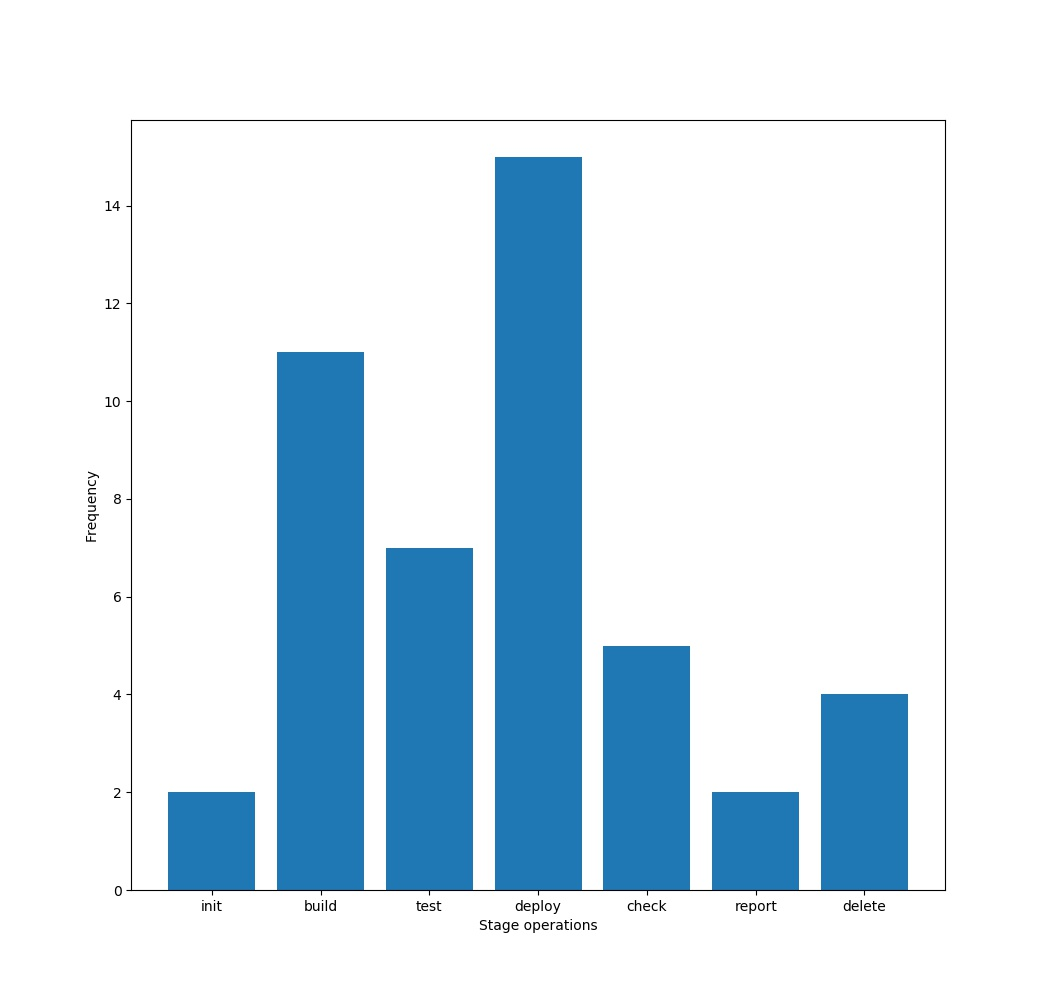
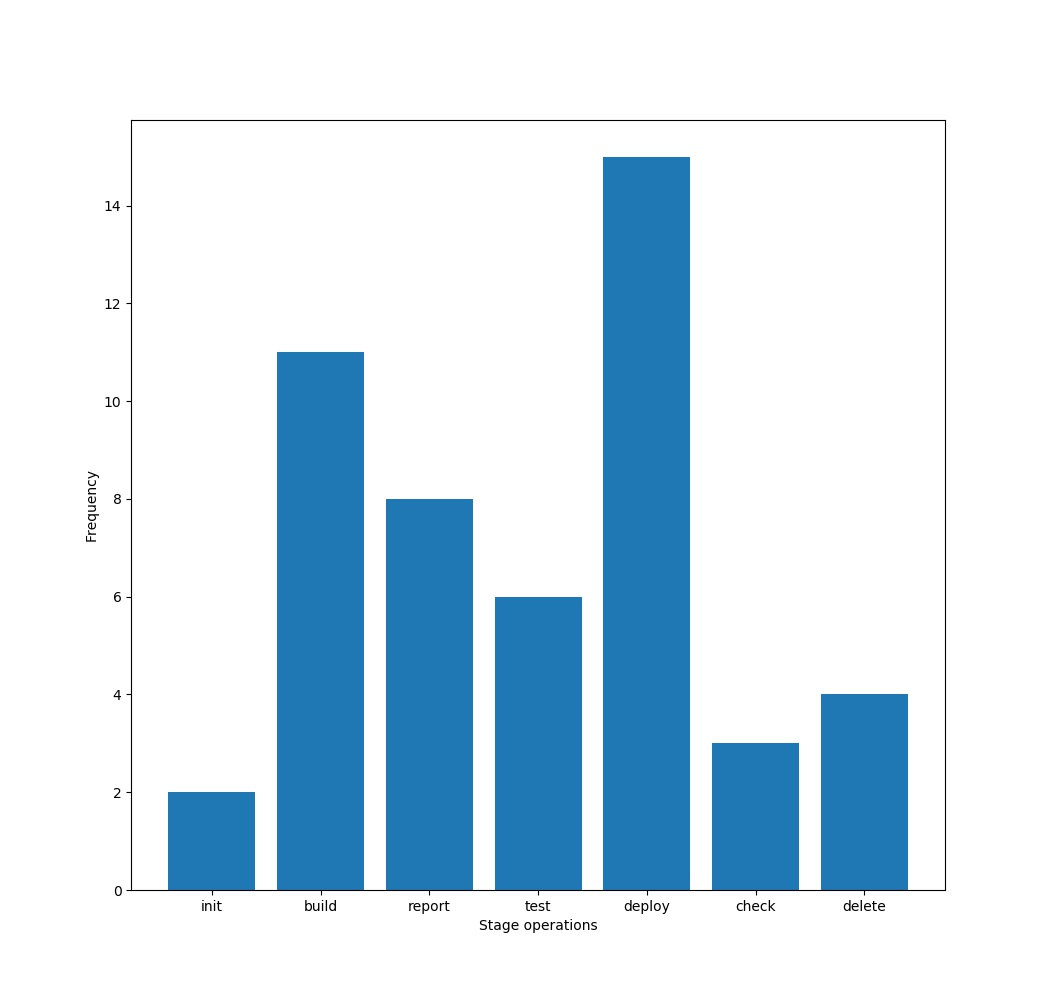
combined bargraph

diff --git a/app/q3/freqOps.py b/app/q3/freqOps.py
@@ -5,8 +5,19 @@ import operator
 
 with open('intermediateOutput.json') as f:
     allOps = json.load(f)
+	
+with open('intermediateOutput_2.json') as f:
+    allStageOps = json.load(f)
 
-ops = {'init':0, 'build':0, 'test':0, 'deploy':0, 'checkout':0,'check':0, 'report':0, 'release':0, 'delete':0,'cleanup':0}
+ops = {'init':0, 'build':0, 'report':0, 'test':0, 'deploy':0, 'checkout':0,'check':0,  'release':0, 'delete':0,'cleanup':0}
+
+cmdDict = {}
+
+for ao in list(allStageOps.keys()):
+	if 'sonar' in ao:
+		newKey = ao.replace("sonar","report ")
+		allStageOps[newKey] = allStageOps.pop(ao);
+		allOps[newKey] = allOps.pop(ao);
 
 #update ops while iterating through allOps
 for ao in allOps.items():
@@ -29,7 +40,9 @@ for ao in allOps.items():
 for o in list(ops.keys()):
 	if ops[o]<=1:
 		del ops[o]
-	
+for o in ops.items():
+	print(o)
+		
 myKeys = list(ops.keys())
 counts = list(ops.values())
 len = len(myKeys)
@@ -42,3 +55,18 @@ plt.ylabel('Frequency')
 #plt.autoscale_view()
 
 fig.savefig('freq_ops.jpg')
+
+for aso in allStageOps.keys():
+	for o in ops.keys():
+		if o in aso:
+			stageCmdList = allStageOps[aso]
+			if o not in cmdDict:
+				cmdDict[o] = {}
+			for s in stageCmdList:
+				cmdDict[o][s] = cmdDict[o].get(s, 0) + 1
+				#cmdDict[o][s] = cmdDict[o][s] + 1
+			break
+			
+for o in cmdDict.items():
+	print(o)
+	

diff --git a/stage_ops.py b/stage_ops.py
@@ -17,7 +17,8 @@ for stage in stageList:
     try:
         shList.append(data[stage]['sh'])
     except:
-        shList.append(0)
+        print('no sh in ',stage)
+		#shList.append(0)
 
 stageCount = len(stageList)
 ind = np.arange(stageCount)
